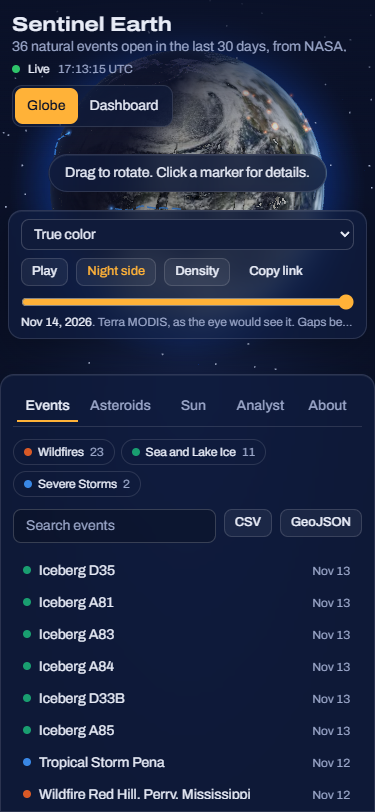
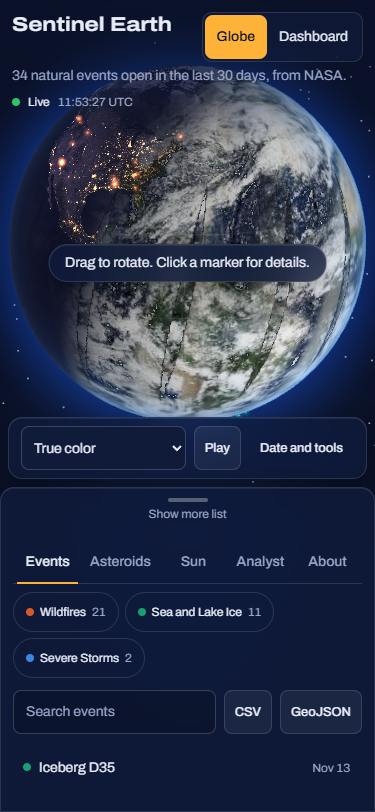
Verify ground view end to end, refresh screenshots, document ground view and its limits
The browser check now enters ground view, checks the HUD, turns, restores the camera on exit,
opens a shared link to the highest-latitude event and steps through every event with motion reduced.

diff --git a/src/components/GroundLayer.tsx b/src/components/GroundLayer.tsx
@@ -21,6 +21,9 @@ export const compassPoint = (deg: number) => POINTS[Math.round((((deg % 360) + 3
 
 export type Waypoint = EonetEvent & { bearing: number; km: number };
 
+// Compass tape ticks every 5°: three copies of 0-360° so it can scroll past north either way.
+const TICKS = Array.from({ length: 72 * 3 }, (_, i) => i * 5 - 360);
+
 // Sky colours by sun elevation (degrees): night, astronomical and civil twilight, golden hour, day.
 const SKY: [number, string, string][] = [
   [-18, "#040814", "#0b1533"],
@@ -281,9 +284,6 @@ export default function GroundLayer({ globe, ready, event, waypoints, calm, onPi
     };
   }, []);
 
-  // Three copies of 0-360° so the tape can scroll past north in either direction.
-  const ticks = Array.from({ length: 72 * 3 }, (_, i) => i * 5 - 360);
-
   return (
     <>
       {/* Sky behind the transparent canvas: the Earth covers it below the horizon. */}
@@ -298,7 +298,7 @@ export default function GroundLayer({ globe, ready, event, waypoints, calm, onPi
         <div className="absolute inset-x-0 top-3 mx-auto w-[min(560px,calc(100%-2rem))] lg:top-4">
           <div className="hud relative h-12 overflow-hidden rounded-xl" aria-hidden>
             <div ref={tape} className="absolute left-1/2 top-0 h-full">
-              {ticks.map((d) => {
+              {TICKS.map((d) => {
                 const deg = ((d % 360) + 360) % 360;
                 const major = deg % 45 === 0;
                 return (

diff --git a/README.md b/README.md
@@ -6,6 +6,8 @@ Built for the NASA Space Apps Challenge 2026.
 
 ![Sentinel Earth with an event selected](docs/screenshots/desktop-1440-2-event.png)
 
+![Ground view of a wildfire before dawn](docs/screenshots/desktop-1440-9-ground.png)
+
 ![The dashboard](docs/screenshots/desktop-1440-7-dashboard.png)
 
 ## The problem
@@ -17,6 +19,7 @@ Sentinel Earth joins six of those services in one place:
 - **Natural events.** Every open event from NASA EONET for the last 30 days, on the globe and in a list you can search and filter. Moving events such as storms and icebergs show their track. Newer reports draw larger, and events from the last 48 hours pulse.
 - **Satellite imagery over time.** Five NASA GIBS layers (true color, fire and burn scars, sea surface temperature, city lights, Blue Marble) with a 30-day date slider and playback.
 - **A globe that shows the real moment.** The day side is lit from where the sun is right now, the night side shows NASA's Black Marble city lights, and open ocean catches the sun's glint. Gaps between satellite passes are filled from the day before, with Blue Marble underneath. Events glow as beacons, storm and iceberg tracks flow in their direction of travel, and a density layer shows where events cluster.
+- **Ground view.** Stand at any event, about 2 km above the surface, and look around. The sky is coloured from where the sun is at that place right now, with stars after dark. A compass shows which way you face, other open events within 1000 km sit on the horizon at their true bearing and distance, and a moving event's track is drawn on the ground. Step through every event with [ and ], or share a link that opens straight into it.
 - **Dashboard.** Key numbers, event reports per day, breakdowns by type and region, the asteroid timeline, space weather, today's picture of Earth and the freshness of every source. Every chart has a table view, and clicking a mark opens that event or asteroid on the globe.
 - **Space weather.** Coronal mass ejections, geomagnetic storms, high-speed solar wind streams and solar flares from NASA DONKI for the last 30 days.
 - **Earth today.** The latest full-disk photograph from the DSCOVR EPIC camera.
@@ -73,6 +76,7 @@ flowchart LR
 - If a NASA service fails, the server returns its last good answer, or the snapshot bundled in [src/data](src/data), and marks it as saved data. The interface and the dashboard's freshness table say so. The demo never shows an empty screen.
 - The NASA API key is used only on the server. Imagery tiles and the EPIC photograph load in the browser from hosts that need no key.
 - The night side is one shader on a shell above the globe. It reads the sun's position from the clock and blends in a Black Marble texture bundled in [public/night.jpg](public/night.jpg).
+- Ground view reuses the same globe and WebGL canvas. It takes over the camera, shortens the view to just past the horizon so the tile engine only fetches nearby close-up tiles, and caps each layer at the zoom level NASA actually serves. The sky, sun, compass and horizon markers are page elements placed by projecting real directions through the camera. Sun position, bearings and distances come from small functions in [src/lib/geo.ts](src/lib/geo.ts) that `npm run selfcheck` tests.
 - The analyst has three tools, `get_natural_events`, `get_close_approaches` and `get_space_weather`, which read the same cached feeds as the interface. It is told to answer only from tool results and to cite event ids.
 - Event colours follow one fixed palette, checked for colour-blind separation and contrast against the panel background.
 
@@ -106,13 +110,13 @@ npm run dev                  # http://localhost:3000
 ### Checks
 
 ```bash
-npm run selfcheck            # logic: sun position, regions, CSV and GeoJSON export
+npm run selfcheck            # logic: sun position, bearings, solar time, regions, CSV and GeoJSON export
 npm run build
 npx next start -p 3001       # on Windows, scripts/restart.ps1 rebuilds and restarts it
 npm run verify               # in a second terminal
 ```
 
-`npm run verify` drives the app in Microsoft Edge at 1440px and 375px. It selects an event, searches, downloads both exports, opens every tab and the dashboard, waits for the EPIC photograph, saves screenshots to [docs/screenshots](docs/screenshots) and fails on any console error or failed request. Set `BROWSER_CHANNEL=chrome` to use Chrome. Set `ANTHROPIC_CHECK=1` to also wait for a live analyst answer.
+`npm run verify` drives the app in Microsoft Edge at 1440px and 375px. It selects an event, searches, downloads both exports, opens every tab and the dashboard, and waits for the EPIC photograph. Then it opens the ground view, checks the HUD, turns with the arrow keys and checks that Esc puts the camera back where it was. With motion reduced, it starts from a shared link to the highest-latitude event and steps through every event. It saves screenshots to [docs/screenshots](docs/screenshots) and fails on any console error or failed request. Two exceptions are expected and counted: the analyst's 503 without a key, and a NASA imagery tile that has no data for its day (404). Set `BROWSER_CHANNEL=chrome` to use Chrome. Set `ANTHROPIC_CHECK=1` to also wait for a live analyst answer.
 
 ### Deploy
 
@@ -127,9 +131,9 @@ Add `NASA_API_KEY` and `ANTHROPIC_API_KEY` in the Vercel project settings first.
 1. **0:00 Open the app.** The camera falls in from deep space onto today's Terra imagery, daylit side first. Drag the globe to the night side: "That line is where the sun is setting right now, and those are real city lights." "Everything here is live NASA data. Nothing is mocked."
 2. **0:15 Events.** Turn Wildfires off and on. Type "Iceberg" in the search box. Click a storm: the globe flies there and shows its track. Pulsing markers are reports from the last 48 hours.
 3. **0:35 Imagery over time.** Click "See that day's imagery". Switch the layer to "Fire and burn scars" on a wildfire. Press Play and let a few days run. Turn on Density to show where events cluster.
-4. **0:50 Dashboard.** Switch to Dashboard. Read the four key numbers. Hover the reports chart, open "Show as table" once, point at today's EPIC photograph and the freshness table. Click a bar: it lands back on the globe at that event.
-5. **1:10 Space weather.** Open the Sun tab. "Ninety-odd solar eruptions and one geomagnetic storm this month, from NASA's DONKI."
-6. **1:20 Asteroids.** Open the Asteroids tab. Read the closest pass against the Moon's distance line. Click "Show them around Earth".
+4. **0:45 Ground view.** On a selected wildfire, click "Ground view": the camera descends and you stand at the fire. "The sky is the real sky over that fire right now. Those markers on the horizon are the other fires within 1000 km, at their true bearing." Drag to look around, press ] to jump to the next event, then Esc to come back to exactly where you were.
+5. **1:05 Dashboard.** Switch to Dashboard. Read the four key numbers. Hover the reports chart, point at today's EPIC photograph and the freshness table. Click a bar: it lands back on the globe at that event.
+6. **1:20 Space weather and asteroids.** Open the Sun tab: "Ninety-odd solar eruptions and one geomagnetic storm this month, from NASA's DONKI." Then the Asteroids tab: read the closest pass against the Moon's distance line.
 7. **1:35 Analyst.** Ask: "Which active wildfires are near populated areas this week?" Click a citation in the answer and the globe flies to it. "The model can only answer from the feeds, and it shows its sources."
 8. **1:50 Share and export.** Click "Copy link" and open it in a new tab: same view. Download the GeoJSON. "If NASA's service goes down mid-demo, the app serves its last saved data and tells you."
 
@@ -140,6 +144,7 @@ Add `NASA_API_KEY` and `ANTHROPIC_API_KEY` in the Vercel project settings first.
 - EONET positions are points. For events reported as polygons, the first vertex is used.
 - Regions on the dashboard are rough boxes around each continent, labelled as approximate.
 - The day/night line is accurate to about a degree. The city lights are a 2016 composite.
+- Ground view is a perspective over satellite imagery at about 250 m per pixel, not street level, and the ground is flat (no terrain heights). The sun position ignores atmospheric refraction, so near the horizon it can read about half a degree low. Horizon markers show true bearing and distance, but most sit beyond the real horizon, so they are drawn on it rather than hidden.
 - NASA's DONKI solar-flare endpoint was returning an error while this was built, so flares are coded from its documentation and have not been seen working. The other three space weather feeds were checked live.
 - There is no population layer. When asked about populated areas, the analyst reasons from coordinates and says it is an estimate.
 - The server cache lives in memory, per instance.
